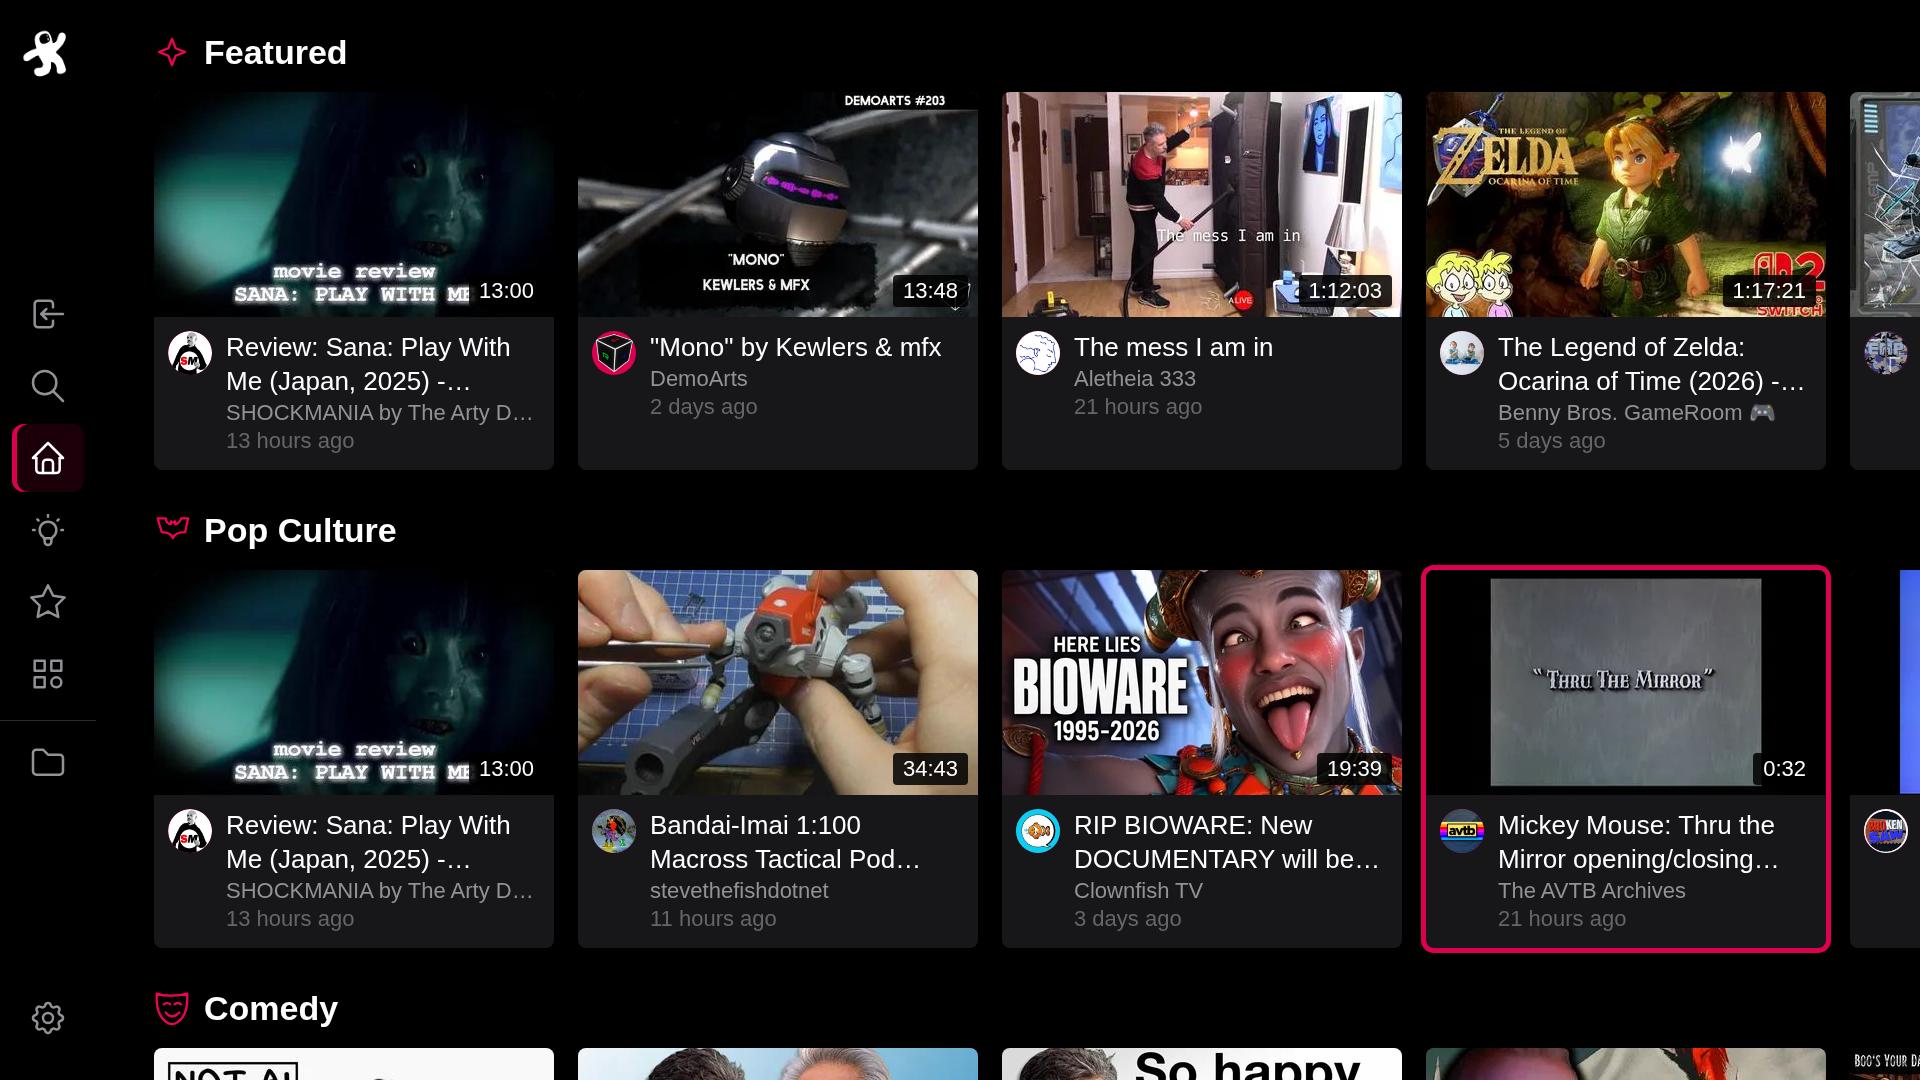
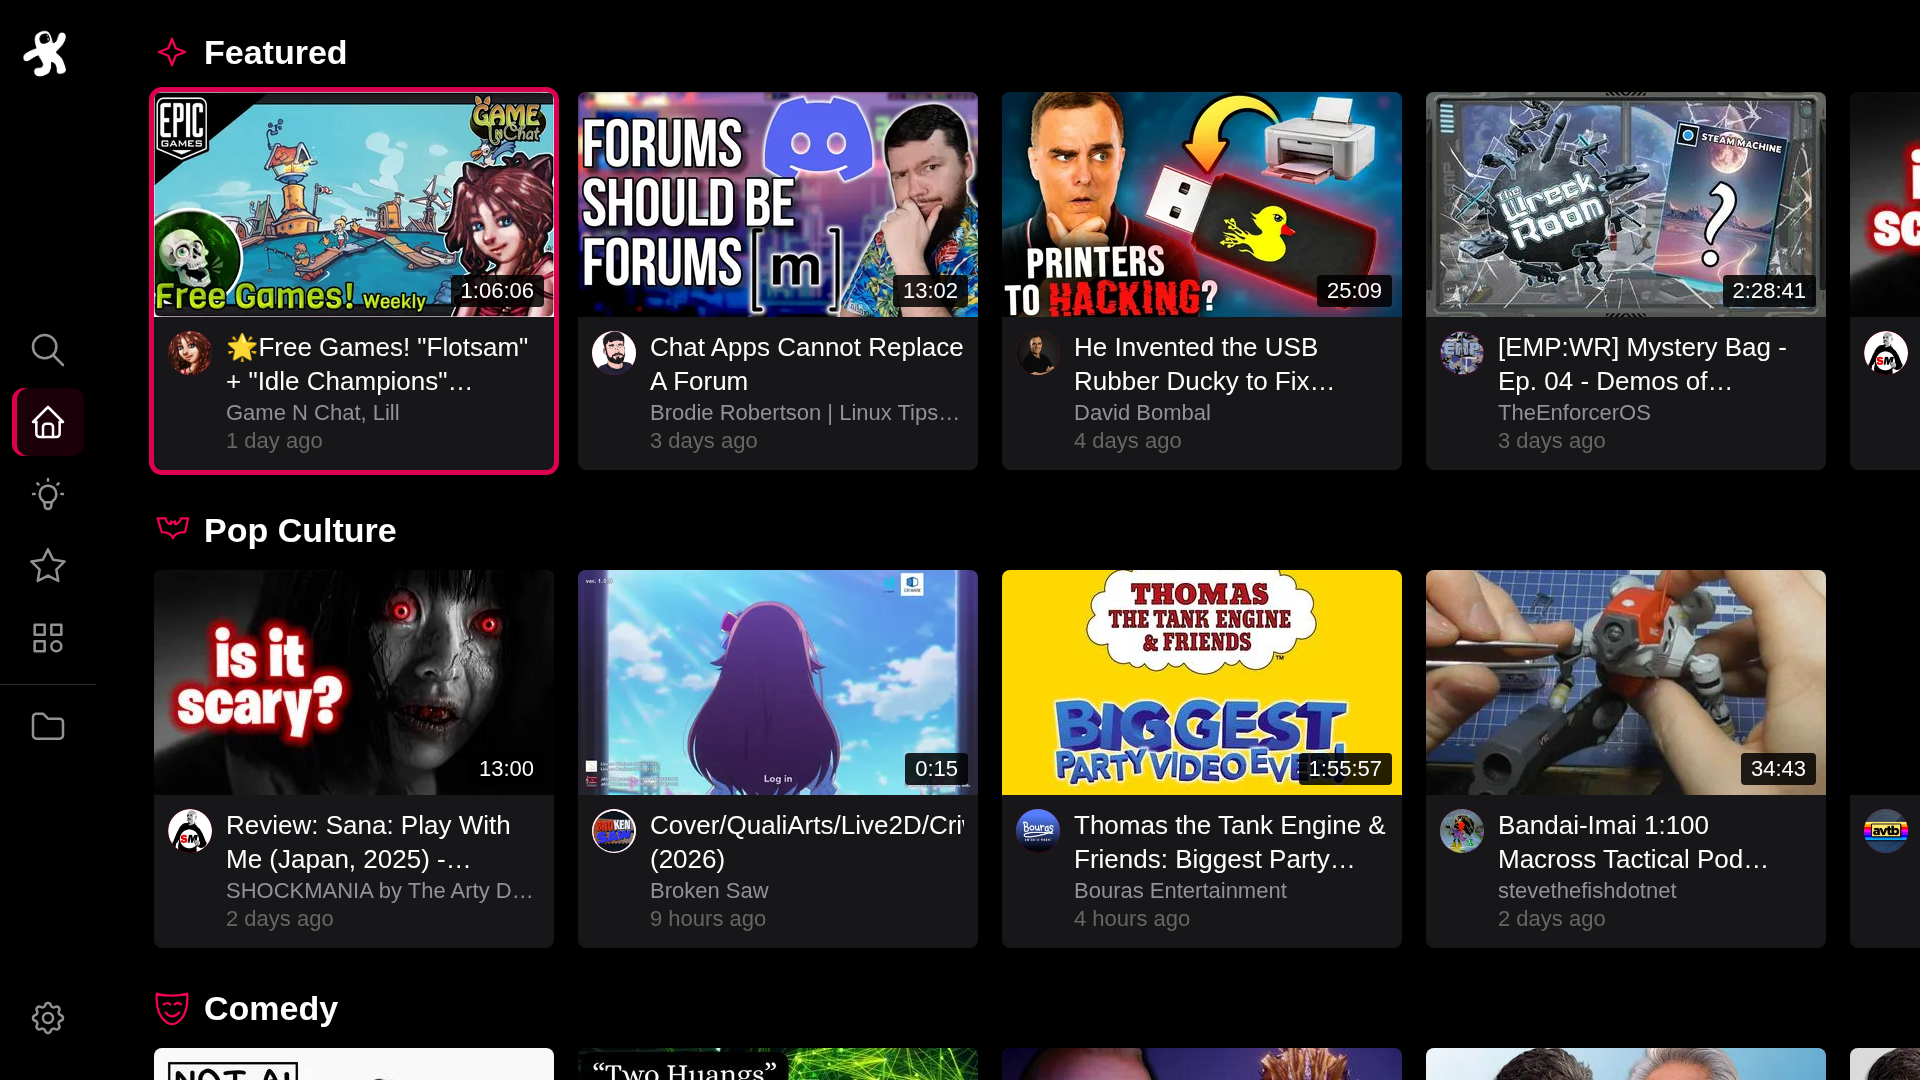
update home screenshot and shorten the feature list

diff --git a/README.md b/README.md
@@ -12,11 +12,10 @@ Unofficial Odysee client for LG webOS TVs.
 
 ## Features
 
-- Home like on Odysee, with Continue Watching and one row per category.
-- Search with filters, Categories, channels, Library, Playlists and Following. Sign in to sync Watch Later, Favorites and Following.
-- Hold OK on a video to save it, remove it from your lists or open its channel.
-- Player with aspect ratio, speed and Stats for Nerds. Autoplay goes on with the next video of the list you started from, or a related one.
-- Plays the transcoded stream that Odysee makes of a video, like odysee.com does, and the original file when there is none or the server will not hand it out.
+- Home like on Odysee, with Continue Watching and a row per category.
+- Search, Categories, channels, Library, Playlists and Following. Sign in to sync Watch Later, Favorites and Following.
+- Hold OK on a video to save it, remove it or open its channel.
+- Player with aspect ratio, speed, Stats for Nerds and autoplay of the next video.
 - Themes, fonts and sizes, a customizable homepage and menu, 9 languages.
 - Made for the TV remote, the Magic Remote pointer works too.
 
